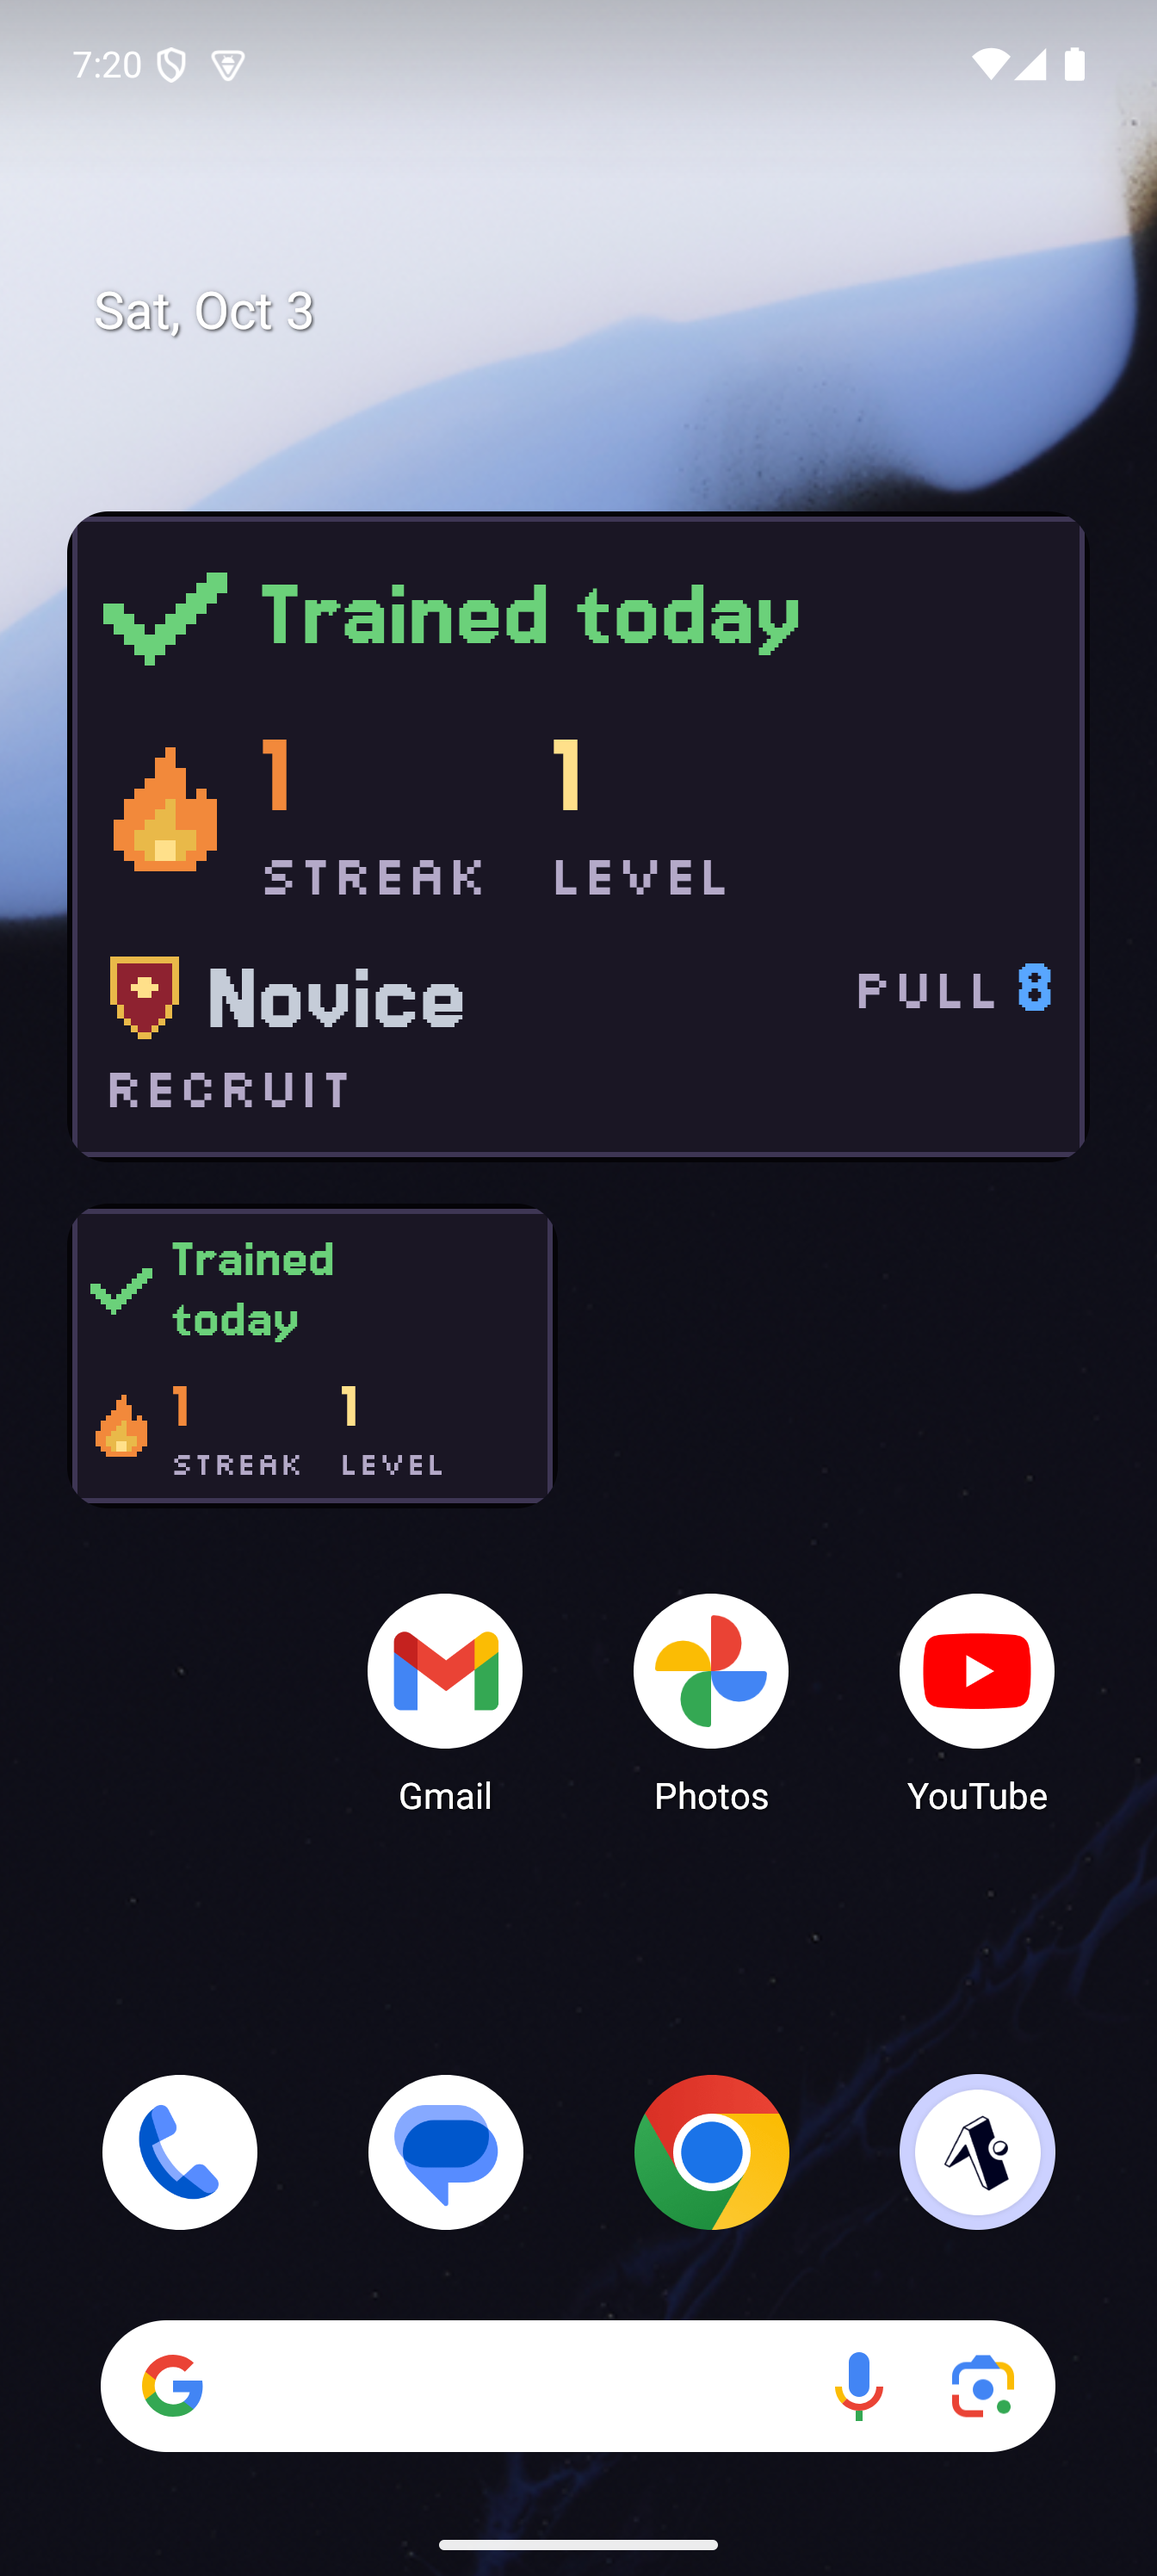
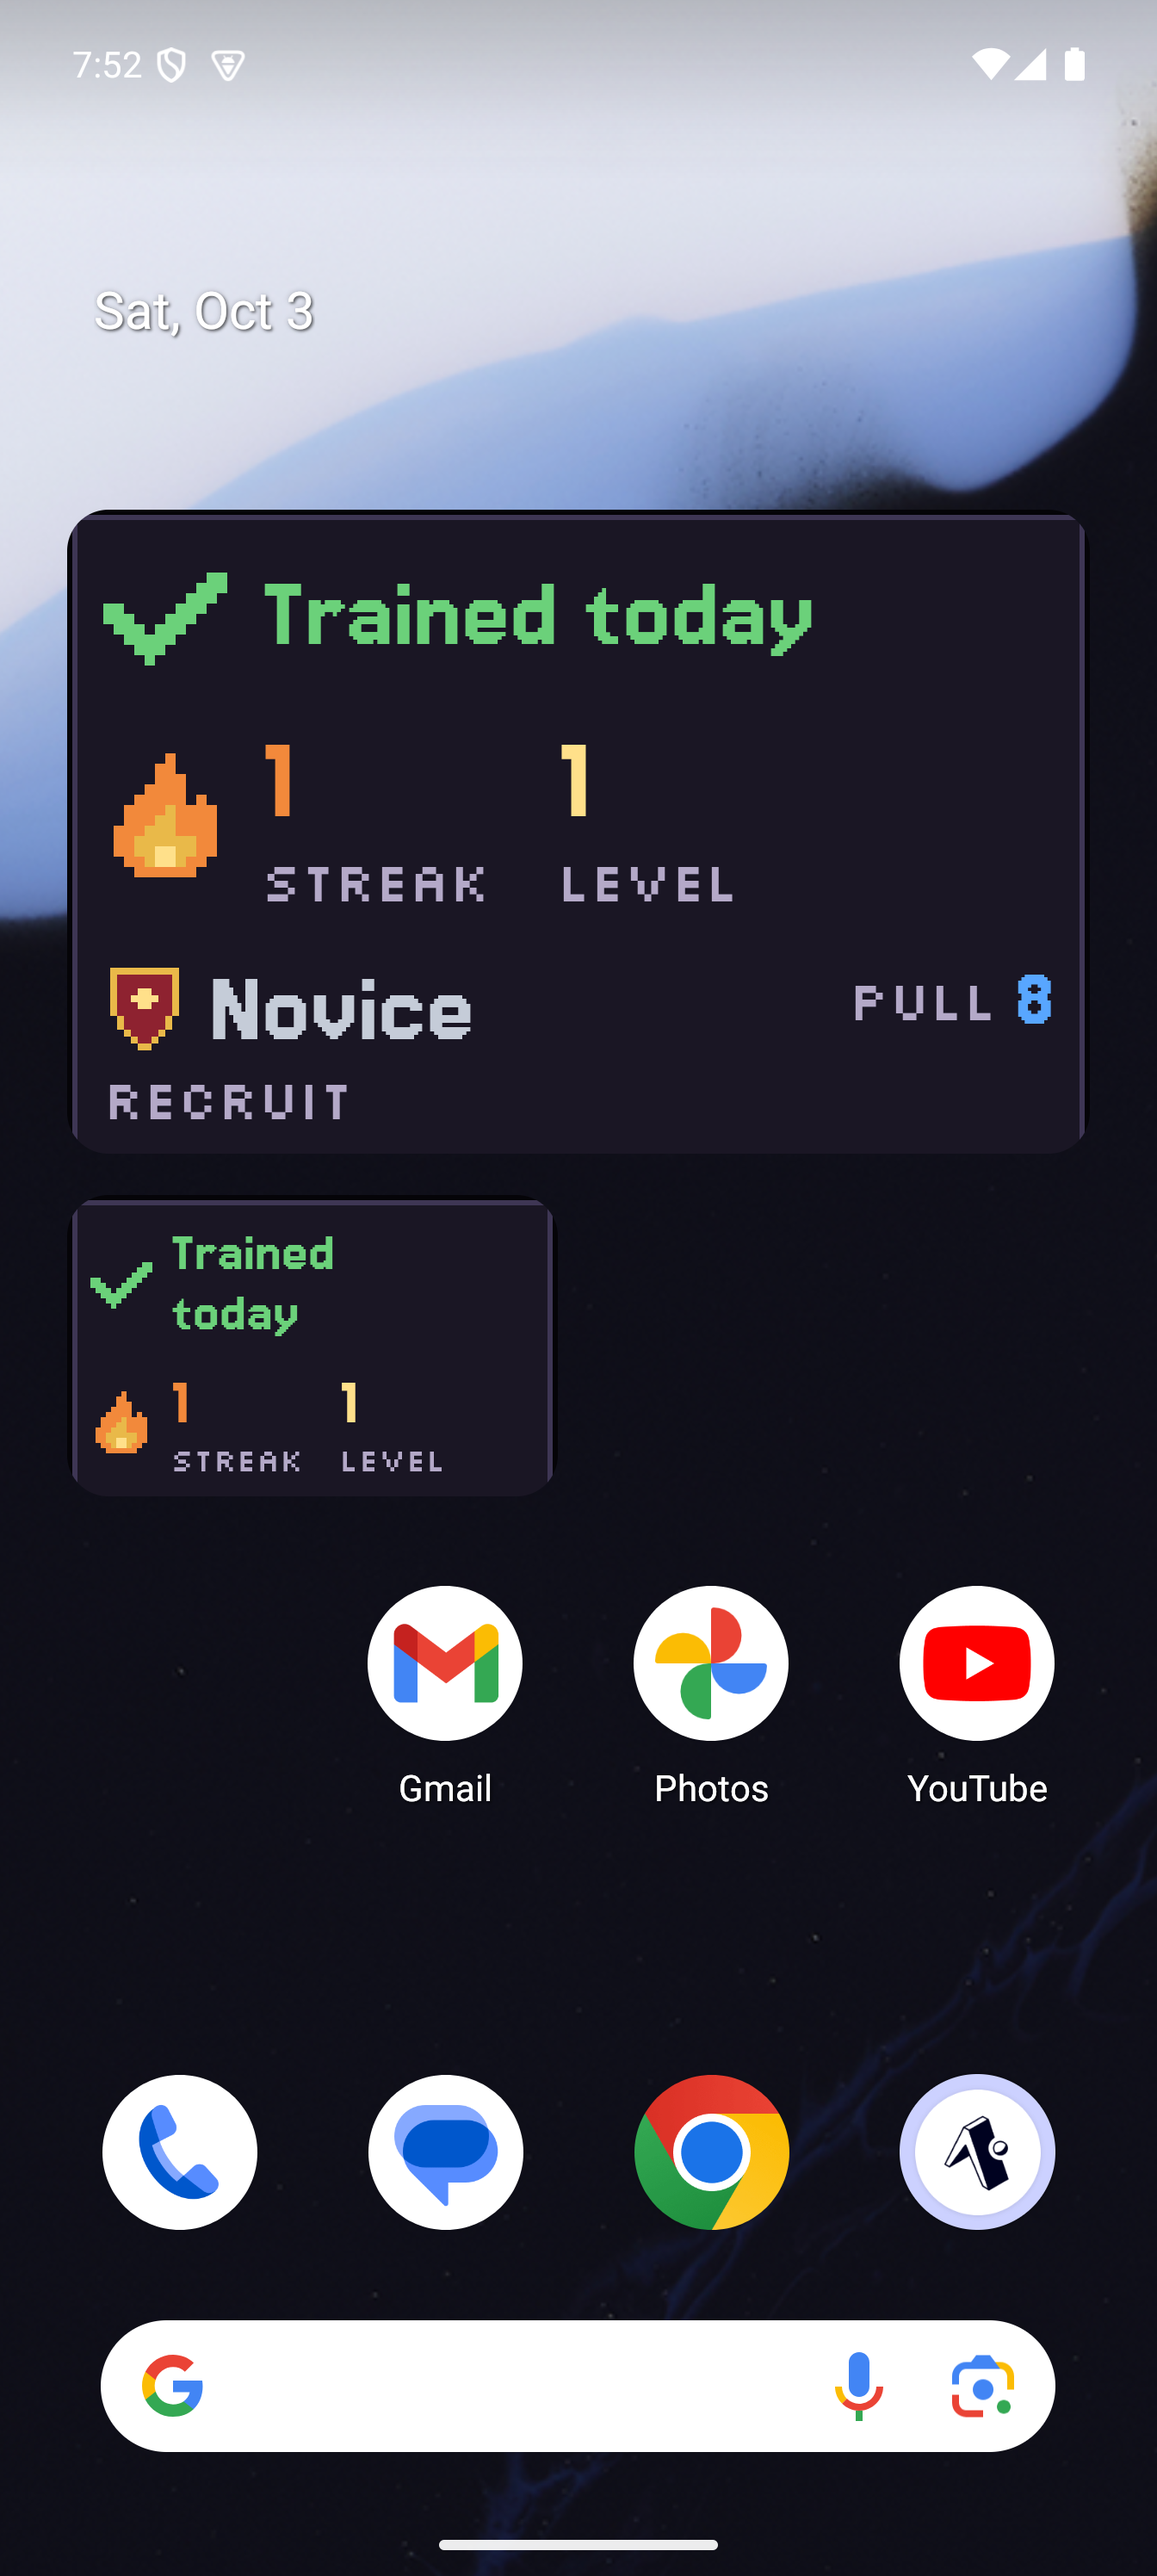
fix: readable text first in the widget layouts, sprite size weighed fully (6.12)

diff --git a/src/widget/widgetLayout.ts b/src/widget/widgetLayout.ts
@@ -433,10 +433,10 @@ interface Candidate {
 /** Each extra shown (rank, class, an attribute) is worth this much scale in the choice. */
 const EXTRA_WEIGHT = 0.2;
 /**
- * Text below this scale (status 18 dp, labels 9 dp) is hard to read: an arrangement that only fits
- * smaller is chosen only when nothing else fits at a readable size.
+ * Text below this scale (status 20 dp, labels 10 dp: the 6.6 sizes) gets small on a phone: an
+ * arrangement that only fits smaller is chosen only when nothing else fits at this size or more.
  */
-const READABLE_SCALE = 0.9;
+const READABLE_SCALE = 1;
 /** Outweighs any score of a smaller-than-readable arrangement. */
 const READABLE_BONUS = 1000;
 
@@ -639,7 +639,7 @@ const heightFill = ({ content, inner }: Measured) =>
 
 /**
  * Picks the candidate with the best score: scale × (1 + `EXTRA_WEIGHT` × extras) × height fill,
- * readable ones first.
+ * readable ones first; below the readable scale only the biggest text counts (scale × fill).
  */
 function choose(widthDp: number, heightDp: number, candidates: Candidate[]): WidgetLayout {
   let best: { layout: WidgetLayout; score: number } | undefined;
@@ -648,8 +648,9 @@ function choose(widthDp: number, heightDp: number, candidates: Candidate[]): Wid
     if (!result) continue;
     const fill = heightFill(result);
     const score =
-      (result.sizes.scale >= READABLE_SCALE ? READABLE_BONUS : 0) +
-      result.sizes.scale * (1 + EXTRA_WEIGHT * candidate.extras) * fill;
+      result.sizes.scale >= READABLE_SCALE
+        ? READABLE_BONUS + result.sizes.scale * (1 + EXTRA_WEIGHT * candidate.extras) * fill
+        : result.sizes.scale * fill;
     if (!best || score > best.score) {
       best = { layout: { sizeClass: candidate.sizeClass, ...result, fill }, score };
     }
@@ -747,16 +748,13 @@ function companionCandidates(view: HeroView, mood: string, sprite: WidgetSprite)
 
 /** The smallest sprite: 2 dp per pixel (64 × 80 dp). */
 const MIN_SPRITE_PIXEL = 2;
-/**
- * How much a bigger sprite counts against bigger text in the choice (score = pixel ^ this × text
- * scale × fill): below 1, so the sprite grows only while the text keeps a good size.
- */
-const SPRITE_WEIGHT = 0.75;
 
 /**
  * The large widget's layout: every sprite size (whole dp per sprite pixel, so the pixels stay
- * crisp) × every arrangement; the best scores sprite size × text scale × height fill. Without a
- * companion in the snapshot (an app that has not written one yet) it is the small widget's.
+ * crisp) × every arrangement; the best scores sprite size × text scale × height fill, with the
+ * text at the readable scale or more (the sprite grows only while the text keeps that size).
+ * Without a companion in the snapshot (an app that has not written one yet) it is the small
+ * widget's.
  */
 export function companionLayout(view: WidgetView, widthDp: number, heightDp: number): WidgetLayout {
   if (view.kind === 'empty' || !view.companion) return widgetLayout(view, widthDp, heightDp);
@@ -781,7 +779,7 @@ export function companionLayout(view: WidgetView, widthDp: number, heightDp: num
     // A bigger sprite must not shrink the text below the readable scale (unless nothing else fits).
     const score =
       (layout.sizes.scale >= READABLE_SCALE ? READABLE_BONUS : 0) +
-      pixel ** SPRITE_WEIGHT * layout.sizes.scale * layout.fill;
+      pixel * layout.sizes.scale * layout.fill;
     if (!best || score > best.score) best = { layout: { ...layout, spritePixel: pixel }, score };
   }
   if (best) return best.layout;

diff --git a/src/widget/widgetLayout.test.ts b/src/widget/widgetLayout.test.ts
@@ -269,7 +269,7 @@ describe('the companion widget layout (PLAN 6.12)', () => {
     const layout = companionLayout(longView, 395, 250);
     expect(layout.sizeClass).toBe('standard');
     expect(layout.spritePixel).toBeGreaterThanOrEqual(4);
-    expect(layout.sizes.scale).toBeGreaterThanOrEqual(1.2);
+    expect(layout.sizes.scale).toBeGreaterThanOrEqual(1);
     expect(texts(layout.root)).toEqual(
       expect.arrayContaining(['Not yet today', 'MISSING YOU', '123', '47', 'Apprentice']),
     );

diff --git a/docs/DECISIONS.md b/docs/DECISIONS.md
@@ -2104,12 +2104,14 @@ Template:
     the 6.6 sizes × scale, icons on multiples of 12 dp, padding growing to 1.5 and at most 4 % of
     the shorter side); the biggest scale where the content fits 97 % of the inner box. Score:
     scale × (1 + 0.2 × extras shown) × height fill, where extras are the rank, the class and each
-    attribute, and arrangements at or above scale 0.9 always beat smaller ones (readable text
-    first). The companion adds the sprite size (whole dp per sprite pixel, 2 and up, crisp) and
-    scores pixel^0.75 × scale × fill (with pixel × scale the sprite grew until the text was
-    at 0.9). The sprite is its mood frame trimmed to the painted pixels (`trimPixelRows`): the
-    32 × 40 canvas has empty rows above the head, which on the 4 × 3 widget showed as a band. Free space is spread with `space-evenly` / `space-between`
-    (the root box fills the widget), so what is left is small and even.
+    attribute; arrangements at scale 1 or more (the 6.6 sizes) always beat smaller ones, and
+    below that only scale × fill counts (on the emulator a 2 × 1 at 0.9 crammed in rank, class
+    and a stat in 9 dp labels; the two-line status at 1.1 reads better). The companion adds the
+    sprite size (whole dp per sprite pixel, 2 and up, crisp) and scores pixel^0.75 × scale × fill
+    (with pixel × scale the sprite grew until the text was at 0.9). The sprite is its mood frame
+    trimmed to the painted pixels (`trimPixelRows`): the 32 × 40 canvas has empty rows above the
+    head, which on the 4 × 3 widget showed as a band. Free space is spread with `space-evenly` /
+    `space-between` (the root box fills the widget), so what is left is small and even.
   - **Font sizes in dp** (`allowFontScaling: false`): the layout fits the text to the widget's
     size; the system font scale would make it overflow and clip. The user scales the widget by
     resizing it instead.

diff --git a/docs/DESIGN.md b/docs/DESIGN.md
@@ -429,7 +429,7 @@ strings (`iconSvg`, crisp edges).
   heights at every scale from 0.6 to 3 (type, icons, gaps × scale; icons on multiples of 12 dp;
   padding up to 1.5 × and at most 4 % of the shorter side). The biggest scale that fits wins,
   weighed by what it shows (rank, class, each attribute) and how much of the height it covers;
-  text below scale 0.9 only when nothing else fits. Free space is spread with `space-evenly` /
+  text below scale 1 only when nothing else fits. Free space is spread with `space-evenly` /
   `space-between`, so the rows line up over the full height. Font sizes are dp, not sp
   (`allowFontScaling: false`): the layout fits the text to the widget, the system font size
   would clip it; a bigger widget is the way to bigger text.
